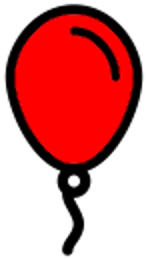
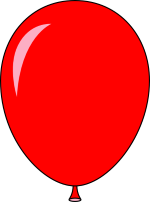
Balon görselleri ve çözünürlük değiştirildi

diff --git a/core/src/com/yazlab/proje/MenuEkrani.java b/core/src/com/yazlab/proje/MenuEkrani.java
@@ -9,16 +9,13 @@ import com.badlogic.gdx.scenes.scene2d.Stage;
 import com.badlogic.gdx.scenes.scene2d.ui.Label;
 import com.badlogic.gdx.scenes.scene2d.ui.TextButton;
 import com.badlogic.gdx.scenes.scene2d.ui.Window;
+import com.badlogic.gdx.utils.viewport.StretchViewport;
 
 import static com.yazlab.proje.Sabitler.ekranGenisligi;
 import static com.yazlab.proje.Sabitler.ekranYuksekligi;
 
 public class MenuEkrani implements Screen {
-    private final float BUTON_GENISLIGI = ekranGenisligi - 180f;
-    private final float BUTON_YUKSEKLIGI = 180f;
-    private final float BUTON_ARALIGI = 10f;
-    private final float BUTON_X = (ekranGenisligi - BUTON_GENISLIGI) / 2;
-    final Oyun oyun;
+    private final Oyun oyun;
     private Stage stage;
     private Tema tema;
     private Label yazi;
@@ -29,11 +26,14 @@ public class MenuEkrani implements Screen {
 
     public MenuEkrani(final Oyun oyun) {
         this.oyun = oyun;
-        this.stage = new Stage();
+        this.stage = new Stage(new StretchViewport(ekranGenisligi, ekranYuksekligi));
         this.tema = new Tema();
         Gdx.input.setInputProcessor(stage);
 
-        float currentY = 1000f;
+        final float BUTON_GENISLIGI = ekranGenisligi - 150f;
+        final float BUTON_YUKSEKLIGI = 150f;
+        final float BUTON_ARALIGI = 20f;
+        final float BUTON_X = (ekranGenisligi - BUTON_GENISLIGI) / 2;
 
         // Ekranın üstündeki yazı
         yazi = new Label("YazLab II - Proje 2\nBalon Patlatma Oyunu", tema);
@@ -43,7 +43,7 @@ public class MenuEkrani implements Screen {
         // "Yeni Oyun" butonu
         yeniOyunButonu = new TextButton("Yeni Oyun", tema);
         yeniOyunButonu.setX(BUTON_X);
-        yeniOyunButonu.setY(currentY);
+        yeniOyunButonu.setY(ekranYuksekligi / 2);
         yeniOyunButonu.setWidth(BUTON_GENISLIGI);
         yeniOyunButonu.setHeight(BUTON_YUKSEKLIGI);
         yeniOyunButonu.addListener(new InputListener() {
@@ -57,7 +57,7 @@ public class MenuEkrani implements Screen {
         // "Hakkında" butonu
         hakkindaButonu = new TextButton("Hakkında", tema);
         hakkindaButonu.setX(BUTON_X);
-        hakkindaButonu.setY(currentY - (BUTON_YUKSEKLIGI + BUTON_ARALIGI));
+        hakkindaButonu.setY(ekranYuksekligi / 2 - (BUTON_YUKSEKLIGI + BUTON_ARALIGI));
         hakkindaButonu.setWidth(BUTON_GENISLIGI);
         hakkindaButonu.setHeight(BUTON_YUKSEKLIGI);
 
@@ -70,7 +70,7 @@ public class MenuEkrani implements Screen {
         // "Çıkış" butonu
         cikisButonu = new TextButton("Çıkış", tema);
         cikisButonu.setX(BUTON_X);
-        cikisButonu.setY(currentY - (BUTON_YUKSEKLIGI + BUTON_ARALIGI) * 2);
+        cikisButonu.setY(ekranYuksekligi / 2 - (BUTON_YUKSEKLIGI + BUTON_ARALIGI) * 2);
         cikisButonu.setWidth(BUTON_GENISLIGI);
         cikisButonu.setHeight(BUTON_YUKSEKLIGI);
         cikisButonu.addListener(new InputListener() {
@@ -125,8 +125,7 @@ public class MenuEkrani implements Screen {
 
     @Override
     public void dispose() {
-        //skin.dispose();
-        //stage.dispose();
-        //oyun.dispose();
+        stage.dispose();
+        oyun.dispose();
     }
 }

diff --git a/core/src/com/yazlab/proje/OyunEkrani.java b/core/src/com/yazlab/proje/OyunEkrani.java
@@ -8,7 +8,15 @@ import com.badlogic.gdx.graphics.GL30;
 import com.badlogic.gdx.scenes.scene2d.Actor;
 import com.badlogic.gdx.scenes.scene2d.Stage;
 import com.badlogic.gdx.scenes.scene2d.ui.Label;
-import static com.yazlab.proje.Sabitler.*;
+import com.badlogic.gdx.utils.viewport.StretchViewport;
+
+import static com.yazlab.proje.Sabitler.ekranGenisligi;
+import static com.yazlab.proje.Sabitler.ekranYuksekligi;
+import static com.yazlab.proje.Sabitler.patlatilanKirmizi;
+import static com.yazlab.proje.Sabitler.patlatilanSari;
+import static com.yazlab.proje.Sabitler.patlatilanSiyah;
+import static com.yazlab.proje.Sabitler.patlatilanYesil;
+import static com.yazlab.proje.Sabitler.puan;
 
 public class OyunEkrani implements Screen {
     private final Oyun oyun;
@@ -34,11 +42,11 @@ public class OyunEkrani implements Screen {
         patlatilanSiyah = 0;
         this.durdurulduMu = false;
         this.oyun = oyun;
-        this.stage = new Stage();
+        this.stage = new Stage(new StretchViewport(ekranGenisligi, ekranYuksekligi));
         this.tema = new Tema();
         this.spawnSuresi = 0f;
         this.spawnAraligi = 0.8f; // Balonların oluşturulma aralığı
-        this.kalanSure = 30; // Oyun süre limiti
+        this.kalanSure = 99999; // Oyun süre limiti
         this.gecenSure = 0f;
         this.sureAraligi = 1.0f;
 

diff --git a/core/src/com/yazlab/proje/BalonYesilSiyah.java b/core/src/com/yazlab/proje/BalonYesilSiyah.java
@@ -7,12 +7,17 @@ import com.badlogic.gdx.scenes.scene2d.Actor;
 import com.badlogic.gdx.scenes.scene2d.InputEvent;
 import com.badlogic.gdx.scenes.scene2d.InputListener;
 import com.badlogic.gdx.scenes.scene2d.Touchable;
-import static com.yazlab.proje.Sabitler.*;
+
+import static com.yazlab.proje.Sabitler.balonGenisligi;
+import static com.yazlab.proje.Sabitler.balonYuksekligi;
+import static com.yazlab.proje.Sabitler.patlatilanSiyah;
+import static com.yazlab.proje.Sabitler.patlatilanYesil;
+import static com.yazlab.proje.Sabitler.puan;
 
 public class BalonYesilSiyah extends Actor {
     public Texture texture;
     public int hiz;
-    public int baslangicX;
+    public float baslangicX;
     public float zaman;
     private float gecenSure;
     private float donusumAraligi;
@@ -25,8 +30,8 @@ public class BalonYesilSiyah extends Actor {
         donustur();
         zaman = 0;
         hiz = 700;
-        baslangicX = MathUtils.random(0, ekranGenisligi - balonGenisligi);
-        setX(baslangicX);
+        baslangicX = MathUtils.random(-0.05f, 3.85f);
+        setX(baslangicX * balonGenisligi);
         setBounds(getX(), getY(), texture.getWidth(), texture.getHeight());
         gecenSure = 0f;
         donusumAraligi = MathUtils.random(0.5f, 2.0f);

diff --git a/core/src/com/yazlab/proje/BalonKirmizi.java b/core/src/com/yazlab/proje/BalonKirmizi.java
@@ -7,7 +7,11 @@ import com.badlogic.gdx.scenes.scene2d.Actor;
 import com.badlogic.gdx.scenes.scene2d.InputEvent;
 import com.badlogic.gdx.scenes.scene2d.InputListener;
 import com.badlogic.gdx.scenes.scene2d.Touchable;
-import static com.yazlab.proje.Sabitler.*;
+
+import static com.yazlab.proje.Sabitler.balonGenisligi;
+import static com.yazlab.proje.Sabitler.balonYuksekligi;
+import static com.yazlab.proje.Sabitler.patlatilanKirmizi;
+import static com.yazlab.proje.Sabitler.puan;
 
 public class BalonKirmizi extends Actor {
     public Texture texture;
@@ -25,8 +29,8 @@ public class BalonKirmizi extends Actor {
         hiz = 320 * MathUtils.random(0.5f, 2.0f);
         genlik = 75 * MathUtils.random(0.5f, 2.0f);
         salinim = 0.01f * MathUtils.random(0.5f, 2.0f);
-        baslangicY = MathUtils.random(0, ekranYuksekligi / balonYuksekligi - 2) * balonYuksekligi;
-        baslangicX = -balonGenisligi * 2;
+        baslangicY = MathUtils.random(.5f, 5f) * balonYuksekligi;
+        baslangicX = -balonGenisligi;
         setX(baslangicX);
         setBounds(getX(), getY(), texture.getWidth(), texture.getHeight());
         setTouchable(Touchable.enabled);

diff --git a/core/src/com/yazlab/proje/Tema.java b/core/src/com/yazlab/proje/Tema.java
@@ -14,7 +14,7 @@ public class Tema extends Skin {
         // Türkçe karakter desteği için FreeType font kullanıldı
         FreeTypeFontGenerator generator = new FreeTypeFontGenerator(Gdx.files.internal("DejaVuSans.ttf"));
         FreeTypeFontGenerator.FreeTypeFontParameter parameter = new FreeTypeFontGenerator.FreeTypeFontParameter();
-        parameter.size = 64;
+        parameter.size = 48;
         parameter.characters = "abcçdefgğhıijklmnoöpqrsştuüvwxyzABCÇDEFGĞHIİJKLMNOÖPQRSŞTUÜVWXYZ0123456789][_!$%#@|\\\\/?-+=()*&.;,{}\\\"´`'<>:";
         BitmapFont font = generator.generateFont(parameter); // Fontu parametreye göre oluştur
         generator.dispose();

diff --git a/core/src/com/yazlab/proje/Sabitler.java b/core/src/com/yazlab/proje/Sabitler.java
@@ -1,10 +1,10 @@
 package com.yazlab.proje;
 
 public final class Sabitler {
-    public static final int ekranGenisligi = 1080;
-    public static final int ekranYuksekligi = 1920;
-    public static final int balonGenisligi = 148;
-    public static final int balonYuksekligi = 260;
+    public static final int ekranGenisligi = 720;
+    public static final int ekranYuksekligi = 1280;
+    public static final int balonGenisligi = 150;
+    public static final int balonYuksekligi = 202;
     public static float ses = 1.0f;
     public static int puan = 0;
     public static int patlatilanKirmizi = 0;
